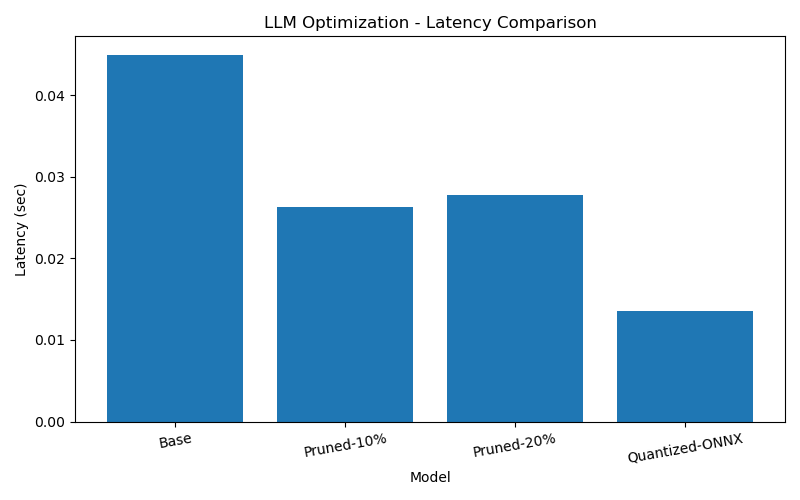
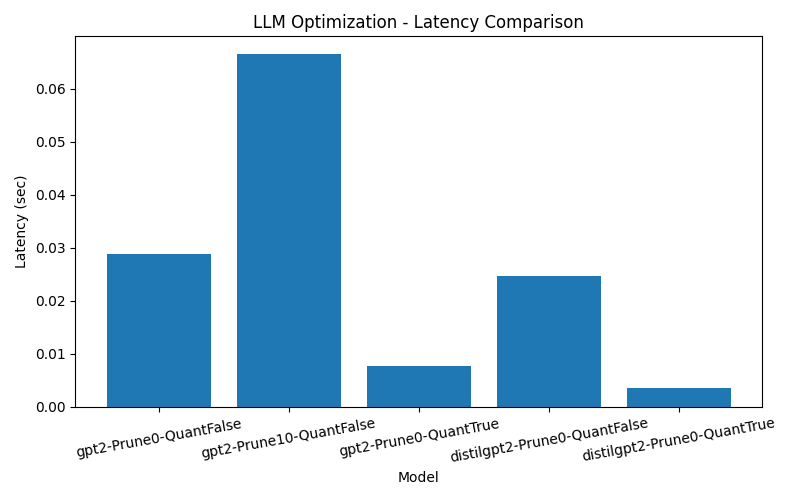
added inference and improved search space

diff --git a/optimizer_engine.py b/optimizer_engine.py
@@ -1,48 +1,42 @@
 import copy
 import pandas as pd
-import os
+from transformers import AutoModelForCausalLM, AutoTokenizer
 from benchmark import UniversalModel, measure_latency, measure_size, calculate_perplexity
 from optimizers.prune import apply_pruning
 from optimizers.quantize import apply_onnx_quantization
+from config_space import get_optimization_grid
 
 class ModelOptimizer:
-    def __init__(self, base_model, tokenizer, output_file="results.csv"):
-        self.base_model = base_model
-        self.tokenizer = tokenizer
+    def __init__(self, output_file="results.csv"):
         self.output_file = output_file
         self.results = []
 
-    def evaluate(self, u_model, name, model_path=None):
-        stats = {
-            "Model": name,
-            "Latency(s)": round(measure_latency(u_model, self.tokenizer), 4),
-            "Size(MB)": round(measure_size(model_path if u_model.is_onnx else u_model.model), 2),
-            "Perplexity": round(calculate_perplexity(u_model, self.tokenizer), 2)
-        }
-        self.results.append(stats)
-        # Save to CSV immediately so you don't lose data if it crashes
-        df = pd.DataFrame(self.results)
-        df.to_csv(self.output_file, index=False)
-        return stats
-
     def run_full_benchmark(self):
-        print("--- Running Full Benchmark Suite ---")
-        
-        # 1. Base
-        u_base = UniversalModel(self.base_model, is_onnx=False)
-        self.evaluate(u_base, "Base")
+        grid = get_optimization_grid()
+        for config in grid:
+            name = f"{config['model']}-Prune{int(config['prune']*100)}-Quant{config['quantize']}"
+            print(f"\n🚀 Benchmarking: {name}")
+            
+            tokenizer = AutoTokenizer.from_pretrained(config['model'])
+            model = AutoModelForCausalLM.from_pretrained(config['model'])
+            
+            # Apply Optimizations
+            if config['prune'] > 0:
+                model = apply_pruning(model, amount=config['prune'])
+            
+            if config['quantize']:
+                path = apply_onnx_quantization(model, tokenizer)
+                u_model = UniversalModel(path, is_onnx=True)
+                size = measure_size(path)
+            else:
+                u_model = UniversalModel(model, is_onnx=False)
+                size = measure_size(model)
 
-        # 2. Pruning
-        for amount in [0.1, 0.2]:
-            print(f"Testing Pruning {int(amount*100)}%...")
-            pruned_model = apply_pruning(copy.deepcopy(self.base_model), amount=amount)
-            u_pruned = UniversalModel(pruned_model, is_onnx=False)
-            self.evaluate(u_pruned, f"Pruned-{int(amount*100)}%")
-
-        # 3. Quantization
-        print("Testing Quantization...")
-        quant_path = apply_onnx_quantization(self.base_model, self.tokenizer)
-        u_quant = UniversalModel(quant_path, is_onnx=True)
-        self.evaluate(u_quant, "Quantized-ONNX", model_path=quant_path)
-
-        print(f"\n✅ All results saved to {self.output_file}")
+            # Measure
+            self.results.append({
+                "Model": name,
+                "Latency(s)": round(measure_latency(u_model, tokenizer), 4),
+                "Size(MB)": round(size, 2),
+                "Perplexity": round(calculate_perplexity(u_model, tokenizer), 2)
+            })
+            pd.DataFrame(self.results).to_csv(self.output_file, index=False)

diff --git a/runtime.py b/runtime.py
@@ -1,47 +1,42 @@
-import torch
-import pandas as pd
-import torch.nn.functional as F
+from compiler import LLMCompiler
 from transformers import GPT2LMHeadModel, GPT2Tokenizer
 from optimizers.prune import apply_pruning
+import torch
 
 class OptimizedRuntime:
-    def __init__(self, model_name="gpt2", results_file="results.csv"):
-        self.device = torch.device("cpu")
-        self.tokenizer = GPT2Tokenizer.from_pretrained(model_name)
+    def __init__(self, target_latency=0.03):
+        # 1. Ask the compiler for the best config
+        compiler = LLMCompiler()
+        self.config, status = compiler.compile(max_latency=target_latency)
+        
+        if not self.config:
+            raise RuntimeError(f"Compiler failed: {status}")
+            
+        print(f"🚀 Initializing production engine with: {self.config['Model']}")
+        
+        # 2. Setup
+        self.tokenizer = GPT2Tokenizer.from_pretrained("gpt2")
         self.tokenizer.pad_token = self.tokenizer.eos_token
+        self.model = GPT2LMHeadModel.from_pretrained("gpt2")
         
-        # Load winner
-        df = pd.read_csv(results_file)
-        winner = df[df['Perplexity'] < 25].sort_values('Latency(s)').iloc[0]
-        
-        print(f"🚀 Initializing production engine with: {winner['Model']}")
-        self.model = GPT2LMHeadModel.from_pretrained(model_name)
-        
-        if "Pruned" in winner['Model']:
-            amount = 0.2 if "20%" in winner['Model'] else 0.1
-            self.model = apply_pruning(self.model, amount=amount)
-        
+        # 3. Apply the specific optimization chosen by the compiler
+        if "Pruned" in self.config['Model']:
+            ratio = 0.2 if "20%" in self.config['Model'] else 0.1
+            self.model = apply_pruning(self.model, amount=ratio)
+            
         self.model.eval()
 
     def generate(self, text, max_new_tokens=20):
         input_ids = self.tokenizer.encode(text, return_tensors="pt")
-        
         for _ in range(max_new_tokens):
             with torch.no_grad():
-                # Direct logit output
                 outputs = self.model(input_ids)
                 next_token_logits = outputs.logits[:, -1, :]
-                
-                # Simple Greedy Decoding
                 next_token = torch.argmax(next_token_logits, dim=-1).unsqueeze(-1)
                 input_ids = torch.cat([input_ids, next_token], dim=-1)
-                
-                if next_token.item() == self.tokenizer.eos_token_id:
-                    break
-                    
+                if next_token.item() == self.tokenizer.eos_token_id: break
         return self.tokenizer.decode(input_ids[0], skip_special_tokens=True)
 
 if __name__ == "__main__":
-    runtime = OptimizedRuntime()
-    print("\n--- Generated Output ---")
+    runtime = OptimizedRuntime(target_latency=0.03)
     print(runtime.generate("The future of artificial intelligence is"))

diff --git a/compiler.py b/compiler.py
@@ -1,0 +1,54 @@
+import pandas as pd
+import os
+import psutil
+
+class LLMCompiler:
+    def __init__(self, results_file="results.csv"):
+        if not os.path.exists(results_file):
+            raise FileNotFoundError("Run benchmark_2.py first!")
+        self.df = pd.read_csv(results_file)
+
+    def get_device_profile(self):
+        """Profiles the current machine to inform compilation decisions."""
+        mem = psutil.virtual_memory()
+        cpu = psutil.cpu_count()
+        
+        # Heuristics for "Device Capability"
+        profile = {
+            "ram_gb": mem.available / (1024**3),
+            "cpu_count": cpu,
+            "is_low_end": (cpu < 4) or (mem.available < (2 * 1024**3))
+        }
+        print(f"🖥  System Profile: {profile['cpu_count']} Cores, {profile['ram_gb']:.2f}GB RAM Available")
+        return profile
+
+    def compile(self, max_latency, weights={'latency': 0.6, 'ppl': 0.4}):
+        profile = self.get_device_profile()
+        candidates = self.df.copy()
+
+        # 1. Hardware-Aware Filtering (The "Insane" logic)
+        if profile['is_low_end']:
+            print("⚠ Low-end hardware detected. Forcing Quantized models only.")
+            # Blacklist "Base" models if they contain "Base" in the name
+            candidates = candidates[~candidates['Model'].str.contains("Base")]
+        
+        if profile['ram_gb'] < 2.0:
+            # Drop models larger than 400MB if RAM is scarce
+            candidates = candidates[candidates['Size(MB)'] < 400]
+
+        # 2. Performance Constraint
+        candidates = candidates[candidates['Latency(s)'] <= max_latency]
+        
+        if candidates.empty:
+            return None, "No models meet these aggressive hardware/latency constraints."
+
+        # 3. Intelligent Selection via Scoring
+        # Normalize (0 to 1, where 1 is best)
+        candidates['norm_lat'] = 1 - (candidates['Latency(s)'] / candidates['Latency(s)'].max())
+        candidates['norm_ppl'] = 1 - (candidates['Perplexity'] / candidates['Perplexity'].max())
+        
+        candidates['score'] = (weights['latency'] * candidates['norm_lat']) + \
+                             (weights['ppl'] * candidates['norm_ppl'])
+        
+        best_choice = candidates.sort_values('score', ascending=False).iloc[0]
+        return best_choice, "Success"

diff --git a/main.py b/main.py
@@ -1,13 +1,22 @@
-from transformers import GPT2LMHeadModel, GPT2Tokenizer
 from optimizer_engine import ModelOptimizer
+from compiler import LLMCompiler
 
 def main():
-    tokenizer = GPT2Tokenizer.from_pretrained("gpt2")
-    model = GPT2LMHeadModel.from_pretrained("gpt2")
-    model.eval()
-
-    optimizer = ModelOptimizer(model, tokenizer)
+    # 1. Run the Benchmarking Engine
+    optimizer = ModelOptimizer() 
     optimizer.run_full_benchmark()
+
+    # 2. Run the Intelligent Compiler
+    compiler = LLMCompiler()
+    
+    # Compiler selects the best config based on hardware + latency
+    best, status = compiler.compile(max_latency=0.015, weights={'latency': 0.9, 'ppl': 0.1})
+    
+    if best is not None:
+        print(f"\n🚀 Compiler Recommendation: {best['Model']}")
+        print(f"Metrics: Latency={best['Latency(s)']}s, PPL={best['Perplexity']}")
+    else:
+        print(f"Error: {status}")
 
 if __name__ == "__main__":
     main()

diff --git a/api.py b/api.py
@@ -1,0 +1,27 @@
+from fastapi import FastAPI, HTTPException
+from compiler import LLMCompiler
+from pydantic import BaseModel
+
+app = FastAPI()
+compiler = LLMCompiler()
+
+class Constraints(BaseModel):
+    max_latency: float
+    priority_speed: bool = True
+
+@app.post("/recommend")
+def get_recommendation(constraints: Constraints):
+    weights = {'latency': 0.9, 'ppl': 0.1} if constraints.priority_speed else {'latency': 0.4, 'ppl': 0.6}
+    
+    best, status = compiler.compile(max_latency=constraints.max_latency, weights=weights)
+    
+    if best is None:
+        raise HTTPException(status_code=404, detail=status)
+        
+    return {
+        "recommended_model": best['Model'],
+        "metrics": {
+            "latency": float(best['Latency(s)']),
+            "perplexity": float(best['Perplexity'])
+        }
+    }

diff --git a/visualize.py b/visualize.py
@@ -94,3 +94,26 @@ print("Saved:")
 print("- latency_comparison.png")
 print("- perplexity_comparison.png")
 print("- tradeoff_plot.png")
+
+
+
+import pandas as pd
+import matplotlib.pyplot as plt
+import seaborn as sns
+
+# Read the results file
+df = pd.read_csv('results.csv')
+
+# Create the visualization
+plt.figure(figsize=(10, 6))
+sns.scatterplot(data=df, x='Latency(s)', y='Perplexity', hue='Model', style='Model', s=100)
+plt.title('Optimization Pareto Frontier: Latency vs. Perplexity')
+plt.xlabel('Latency (s) [Lower is Better]')
+plt.ylabel('Perplexity [Lower is Better]')
+plt.grid(True)
+plt.legend(bbox_to_anchor=(1.05, 1), loc='upper left')
+plt.tight_layout()
+
+# Save the plot
+plt.savefig('tradeoff_plot.png')
+print("Plot saved as tradeoff_plot.png")

diff --git a/config_space.py b/config_space.py
@@ -1,0 +1,13 @@
+# config_space.py
+def get_optimization_grid():
+    """
+    Defines the search space. 
+    Easy to add new models or strategies here.
+    """
+    return [
+        {"model": "gpt2", "prune": 0.0, "quantize": False},
+        {"model": "gpt2", "prune": 0.1, "quantize": False},
+        {"model": "gpt2", "prune": 0.0, "quantize": True},
+        {"model": "distilgpt2", "prune": 0.0, "quantize": False},
+        {"model": "distilgpt2", "prune": 0.0, "quantize": True},
+    ]
